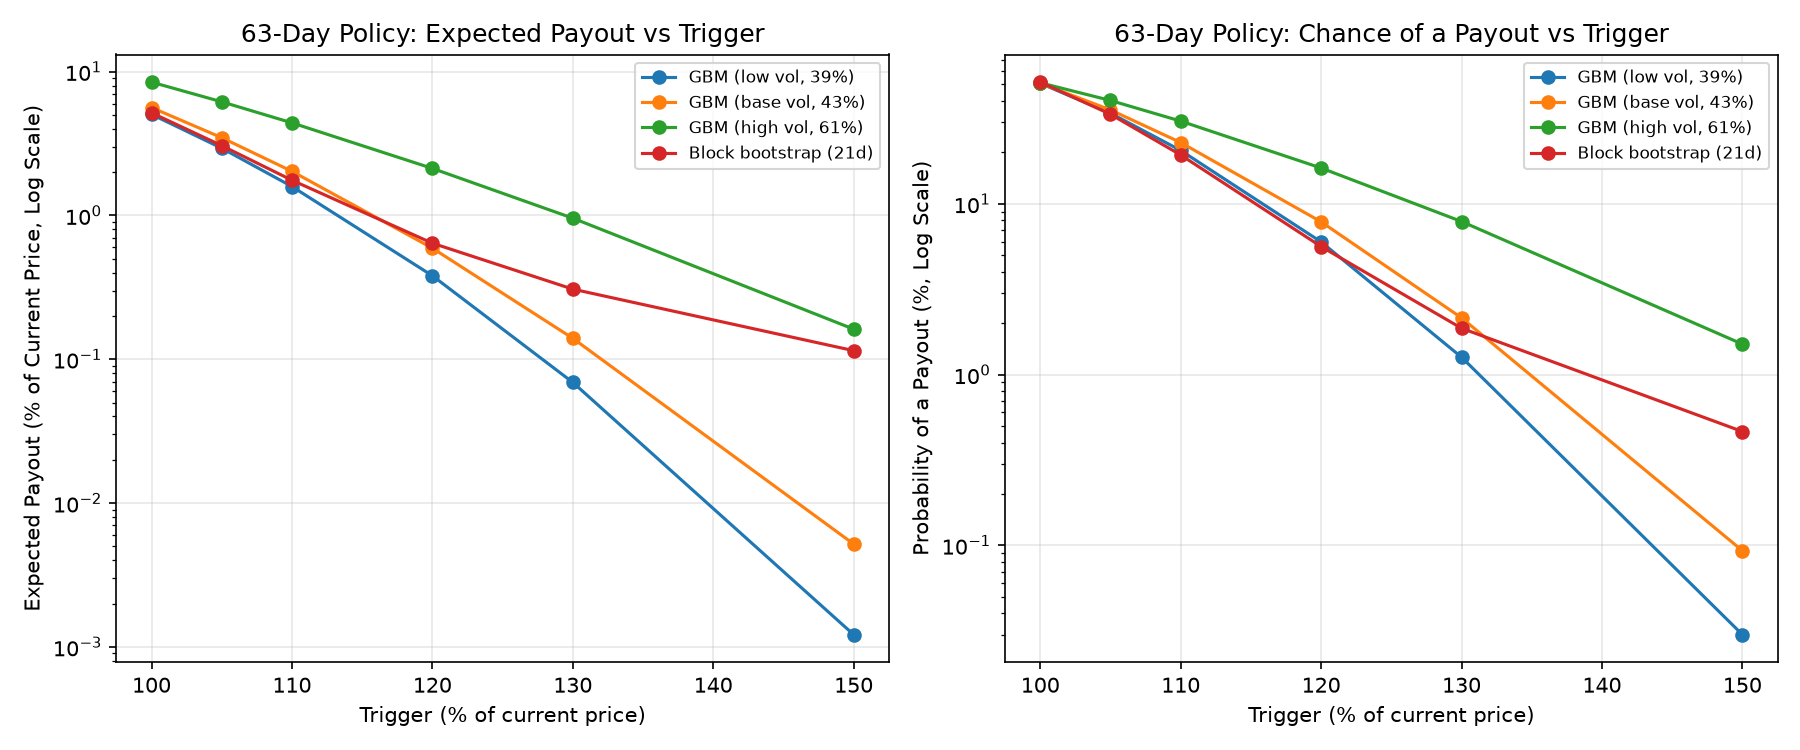
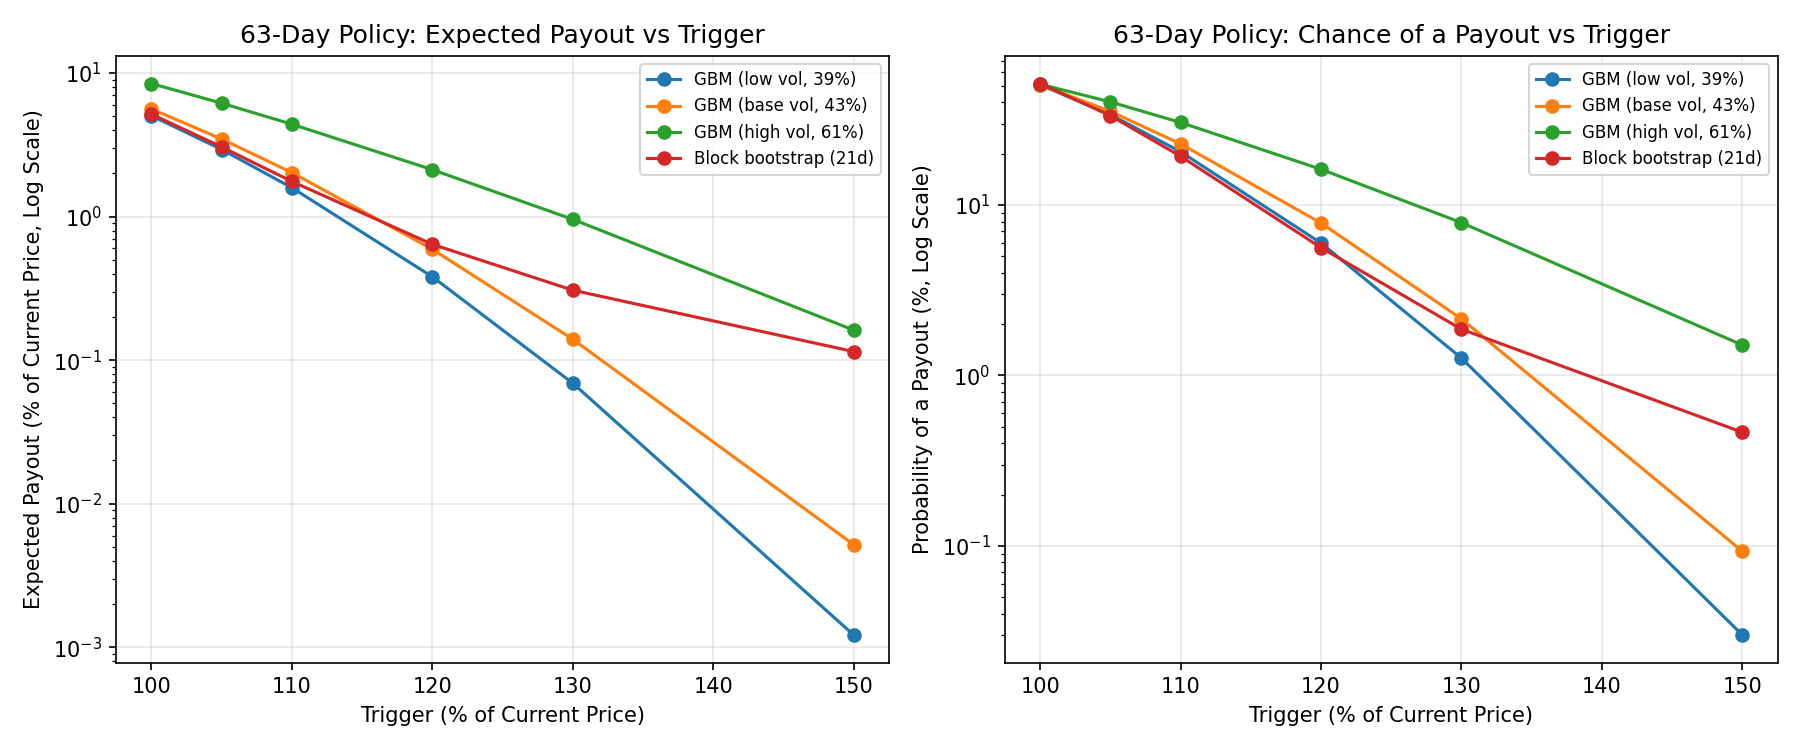
feat: Add MIT license and used title case for all figure captions

diff --git a/scripts/backtest_trigger_breaches.py b/scripts/backtest_trigger_breaches.py
@@ -102,16 +102,16 @@ Path("figures").mkdir(exist_ok=True)
 fig, ax = plt.subplots(1,2, figsize=(12,5), sharey=True)
 for a, table, title in (
     (ax[0], in_sample, "In-Sample: Models Fitted on All Data"),
-    (ax[1], out_sample, f"Out-of-Sample: Fitted Before {SPLIT_DATE[:4]}, Tested From {SPLIT_DATE}")
+    (ax[1], out_sample, f"Out-of-Sample: Fitted Before {SPLIT_DATE[:4]}, Tested from {SPLIT_DATE}")
 ):
-    for col, label in (("realised_prob", "Realised (history)"), ("gbm_prob", "GBM"), ("block_prob", "Block Bootstrap")):
+    for col, label in (("realised_prob", "Realised (History)"), ("gbm_prob", "GBM"), ("block_prob", "Block Bootstrap")):
         a.plot(table["trigger_pct"], (table[col] * 100).replace(0, np.nan), marker="o", label=label)
     a.set_title(title)
     a.set_xlabel("Trigger (% of Starting Price)")
     a.set_yscale("log")
     a.grid(alpha=0.3)
     a.legend()
-ax[0].set_ylabel(f"Probability Average Price Over {HORIZON} Days Exceeds Trigger (%, log scale)")
+ax[0].set_ylabel(f"Probability of a Payout over {HORIZON} Days (%, Log Scale)")
 plt.tight_layout()
 plt.savefig("figures/brent_backtest_breach_prob.png", dpi=150)
 #plt.show()

diff --git a/scripts/explore_returns_and_volatility.py b/scripts/explore_returns_and_volatility.py
@@ -32,7 +32,7 @@ ax[0].set_xlabel("Date"); ax[0].set_ylabel("Price (USD per Barrel)")
 (r*100).hist(bins=100, ax=ax[1]); ax[1].set_title("Distribution of Daily Log Returns")
 ax[1].set_xlabel("Daily Log Return (%)"); ax[1].set_ylabel("Number of Trading Days")
 
-(annual_vol(r)*100).plot(ax=ax[2], title="30-day Rolling Annualised Volatility")
+(annual_vol(r)*100).plot(ax=ax[2], title="30-Day Rolling Annualised Volatility")
 ax[2].set_xlabel("Date"); ax[2].set_ylabel("Annualised Volatility (%)")
 # 9097 obs so about 231 days per year so over 252 so ann_vol overestimated from 42.8% to around 41%
 
@@ -44,8 +44,8 @@ plt.savefig("figures/brent_price_returns_and_volatility.png", dpi=150)
 plt.close()
 fig2, ax2 = plt.subplots(figsize=(9,4))
 (r*100).hist(bins=200, ax=ax2, log=True)
-ax2.set_title("Daily Log Returns - Full Range")
-ax2.set_xlabel("Daily Log Return (%)"); ax2.set_ylabel("Number of Trading Days (log)")
+ax2.set_title("Daily Log Returns, Full Range")
+ax2.set_xlabel("Daily Log Return (%)"); ax2.set_ylabel("Number of Trading Days (Log Scale)")
 plt.tight_layout()
 plt.savefig("figures/brent_return_tails_log_scale.png", dpi=150)
 

diff --git a/scripts/compare_gbm_and_bootstrap.py b/scripts/compare_gbm_and_bootstrap.py
@@ -58,11 +58,11 @@ for name, x in samples.items():
     for a, log in ((ax[0], False), (ax[1], True)):
         a.hist(x, bins=120, range=(-80,80), density=True, histtype="step", label=name, log=log)
 
-ax[0].set_title(f"{HORIZON_DAYS}-Trading Day Log Return: Historical vs Simulated")
-ax[1].set_title("Same Data, Log y-axis (Shows the tails)")
+ax[0].set_title(f"{HORIZON_DAYS}-Trading-Day Log Return: Historical vs Simulated")
+ax[1].set_title("Same Data, Log Y-Axis (Shows the Tails)")
 for a in ax:
-    a.set_xlabel(f"{HORIZON_DAYS}-trading day log return (%)")
-    a.set_ylabel("Probability density (per percent point)")
+    a.set_xlabel(f"{HORIZON_DAYS}-Trading-Day Log Return (%)")
+    a.set_ylabel("Probability Density (per Percentage Point)")
     a.grid(alpha=0.3)
     a.legend()
 plt.tight_layout()

diff --git a/scripts/pricing_sensitivity_analysis.py b/scripts/pricing_sensitivity_analysis.py
@@ -79,7 +79,7 @@ ax[0].set_ylabel("Expected Payout (% of Current Price, Log Scale)")
 ax[1].set_title(f"{MAIN_TERM}-Day Policy: Chance of a Payout vs Trigger")
 ax[1].set_ylabel("Probability of a Payout (%, Log Scale)")
 for a in ax:
-    a.set_xlabel("Trigger (% of current price)")
+    a.set_xlabel("Trigger (% of Current Price)")
     a.set_yscale("log")
     a.grid(alpha=0.3)
     a.legend(fontsize=8)

diff --git a/README.md b/README.md
@@ -96,6 +96,8 @@ call price with the Black-Scholes formula (agreement within 4 standard errors).
 
 Each sits inside a coherent run of prices, so all are kept in the data.
 
+![Daily log returns on a log scale, showing the fat tails](figures/brent_return_tails_log_scale.png)
+
 ## Simulation comparison
 
 Three-month (63 trading day) horizon from the latest price (113.96 USD/bbl).
@@ -239,6 +241,8 @@ Expected payout by policy term, USD per barrel:
 
 Largest Monte Carlo standard errors: 0.025 USD (21 days), 0.072 USD (126 days).
 Full results, including premiums, are in `results/pricing_sensitivity.csv`.
+
+![Expected payout vs policy term at a 110% trigger](figures/brent_policy_price_vs_term.png)
 
 Findings:
 
@@ -401,3 +405,7 @@ read as likely understated if a 2020-style episode is plausible over the term.
 - Payouts are measured relative to the starting price, so windows starting at
   crisis lows (March-June 2020) dominate the out-of-sample tail.
 - A single train/test split (1 January 2010) is used.
+
+## Licence
+
+MIT. See [LICENSE](LICENSE).
